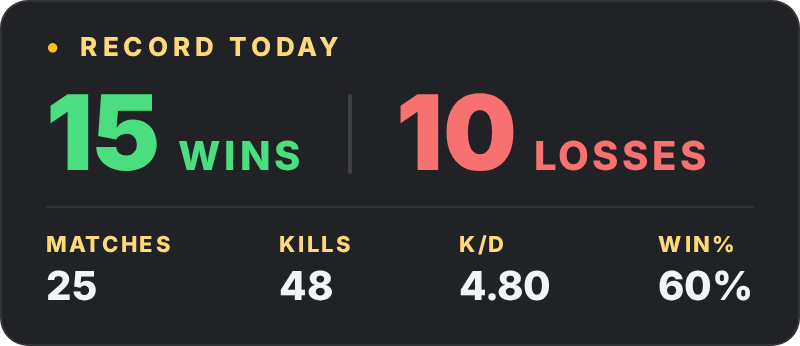
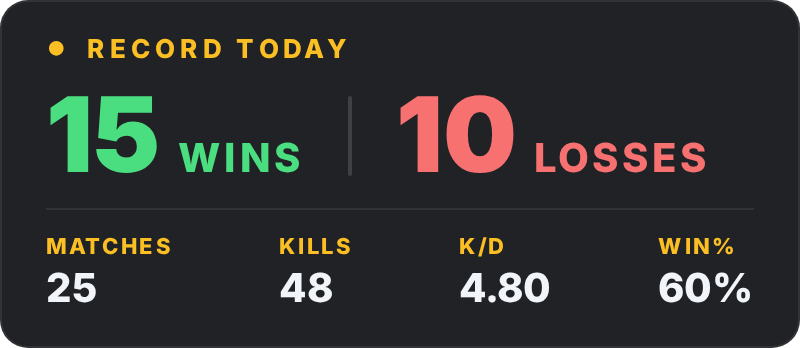
Record: one accent color for the dot, header, labels and creator code
The header, the dot, the stat labels and the creator code were slightly
different shades of the accent (some lightened). They now all use the
exact accent, so a red or white choice matches everywhere, and the dot
is bigger.

Claude-Session: https://claude.ai/code/session_01ULFJwjD1LBQ1X6zS8Auhap

diff --git a/docs/overlay/record.html b/docs/overlay/record.html
@@ -15,7 +15,6 @@
         :root {
             --accent: #fbbf24;
             --accent-rgb: 251, 191, 36;
-            --accent-light: color-mix(in srgb, var(--accent) 60%, white);
             --win: #4ade80;
             --win-rgb: 74, 222, 128;
             --loss: #f87171;
@@ -59,13 +58,13 @@
             font-weight: 800;
             letter-spacing: 0.18em;
             text-transform: uppercase;
-            color: var(--accent-light);
+            color: var(--accent);
         }
 
         /* A text dot rather than a filled box: browser night modes (Brave's)
            repaint bright backgrounds, so a white box went dark. */
         .head .dot {
-            font-size: 11px;
+            font-size: 17px;
             line-height: 1;
             color: var(--accent);
         }
@@ -149,7 +148,7 @@
             font-weight: 800;
             letter-spacing: 0.12em;
             text-transform: uppercase;
-            color: var(--accent-light);
+            color: var(--accent);
         }
 
         .stat-value {

diff --git a/src/designs/Record.html b/src/designs/Record.html
@@ -11,7 +11,6 @@
         :root {
             --accent: #fbbf24;
             --accent-rgb: 251, 191, 36;
-            --accent-light: color-mix(in srgb, var(--accent) 60%, white);
             --win: #4ade80;
             --win-rgb: 74, 222, 128;
             --loss: #f87171;
@@ -55,13 +54,13 @@
             font-weight: 800;
             letter-spacing: 0.18em;
             text-transform: uppercase;
-            color: var(--accent-light);
+            color: var(--accent);
         }
 
         /* A text dot rather than a filled box: browser night modes (Brave's)
            repaint bright backgrounds, so a white box went dark. */
         .head .dot {
-            font-size: 11px;
+            font-size: 17px;
             line-height: 1;
             color: var(--accent);
         }
@@ -145,7 +144,7 @@
             font-weight: 800;
             letter-spacing: 0.12em;
             text-transform: uppercase;
-            color: var(--accent-light);
+            color: var(--accent);
         }
 
         .stat-value {

diff --git a/Record/server.py b/Record/server.py
@@ -1913,7 +1913,6 @@ OVERLAY_HTML = r"""<!DOCTYPE html>
         :root {
             --accent: #fbbf24;
             --accent-rgb: 251, 191, 36;
-            --accent-light: color-mix(in srgb, var(--accent) 60%, white);
             --win: #4ade80;
             --win-rgb: 74, 222, 128;
             --loss: #f87171;
@@ -1957,13 +1956,13 @@ OVERLAY_HTML = r"""<!DOCTYPE html>
             font-weight: 800;
             letter-spacing: 0.18em;
             text-transform: uppercase;
-            color: var(--accent-light);
+            color: var(--accent);
         }
 
         /* A text dot rather than a filled box: browser night modes (Brave's)
            repaint bright backgrounds, so a white box went dark. */
         .head .dot {
-            font-size: 11px;
+            font-size: 17px;
             line-height: 1;
             color: var(--accent);
         }
@@ -2047,7 +2046,7 @@ OVERLAY_HTML = r"""<!DOCTYPE html>
             font-weight: 800;
             letter-spacing: 0.12em;
             text-transform: uppercase;
-            color: var(--accent-light);
+            color: var(--accent);
         }
 
         .stat-value {

diff --git a/wizard/templates/Record/server.py b/wizard/templates/Record/server.py
@@ -1913,7 +1913,6 @@ OVERLAY_HTML = r"""<!DOCTYPE html>
         :root {
             --accent: #fbbf24;
             --accent-rgb: 251, 191, 36;
-            --accent-light: color-mix(in srgb, var(--accent) 60%, white);
             --win: #4ade80;
             --win-rgb: 74, 222, 128;
             --loss: #f87171;
@@ -1957,13 +1956,13 @@ OVERLAY_HTML = r"""<!DOCTYPE html>
             font-weight: 800;
             letter-spacing: 0.18em;
             text-transform: uppercase;
-            color: var(--accent-light);
+            color: var(--accent);
         }
 
         /* A text dot rather than a filled box: browser night modes (Brave's)
            repaint bright backgrounds, so a white box went dark. */
         .head .dot {
-            font-size: 11px;
+            font-size: 17px;
             line-height: 1;
             color: var(--accent);
         }
@@ -2047,7 +2046,7 @@ OVERLAY_HTML = r"""<!DOCTYPE html>
             font-weight: 800;
             letter-spacing: 0.12em;
             text-transform: uppercase;
-            color: var(--accent-light);
+            color: var(--accent);
         }
 
         .stat-value {
